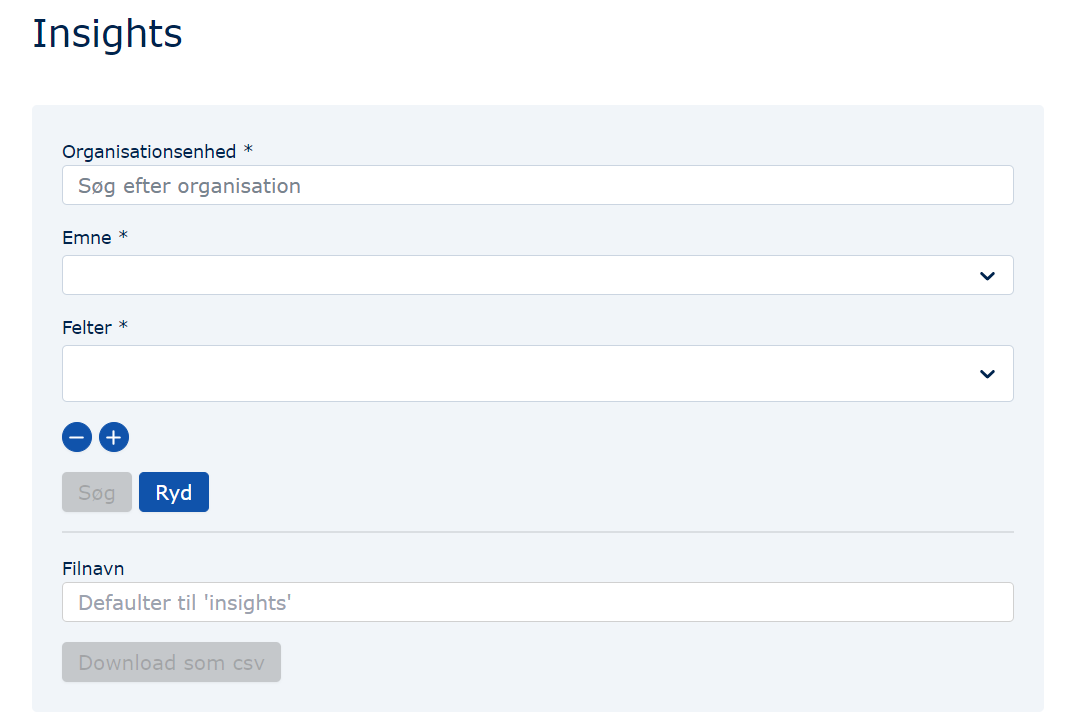
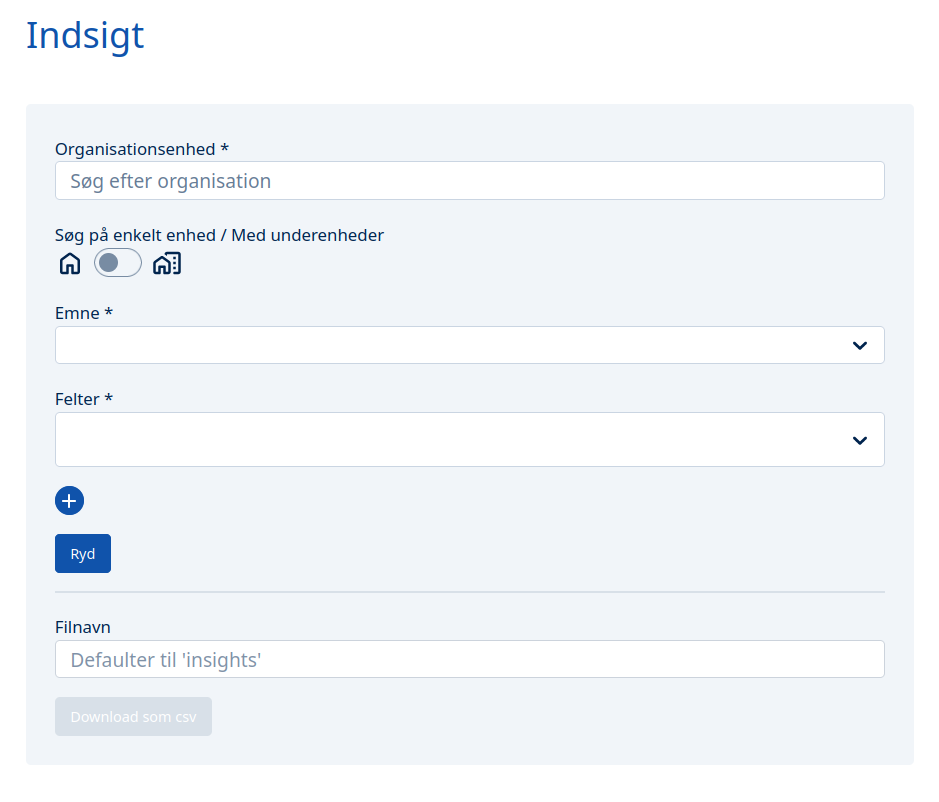
docs: [#69344] indsigt ny

diff --git a/docs/src/features/insights.md b/docs/src/features/insights.md
@@ -1,54 +1,70 @@
 ---
-title: Insights
+title: Indsigt
 ---
 
 ## Formål
 
-Insights er et modul, der giver muligheden for selv at sammensætte data fra MO og udskrive dem i en csv-fil.
+Insights er et BI-modul, der giver muligheden for selv at sammensætte data fra MO og udskrive dem i en csv-fil, der kan åbnes i et regnearksformat (Calc LibreOffice; Excel; Google Sheets).
 
 Formålene med modulet er mange og afhænger af, hvilke data der sammenstilles.
 
-Et eksempel er generering af et udtræk bestående af enheder, lederfunktioner og engagementer.
-
-Et andet er et overblik over alle enheder, deres ansatte, de ansattes adresser og telefonnumre samt stillingsbetegnelser.
+Et eksempel er generering af et udtræk bestående af enheder, lederfunktioner og engagementer, så man kan se, hvem der er chef for hvem og hvor.
 
 ## Brugergrænsefladen
 
-Når man er inde i Insights-modulet i MO, bliver man præsenteret med dette billede:
+Når man klikker på Indsigt i venstremenuen:
+
+![image](../graphics/insights/ventremenu.png)
+
+ bliver man præsenteret for dette billede:
 
 ![image](../graphics/insights/insightsforside.png)
 
-Når en organisationsenhed er fremsøgt, vil de underliggende enheder også blive valgt.
+Man skriver den enhed, man vil have data på, i søgefeltet:
 
-1. Herefter vælges hvilke andre data, man er interesseret i. Det sker ved valg af "Emne":
+![image](../graphics/insights/soegning.png)
 
-    ![image](../graphics/insights/insightsemne.png)
+Når en organisationsenhed er fremsøgt, kan man ved slideren vælge, om de underliggende enheder skal inkluderes i forespørgslen eller ej:
 
-2. Herefter kan der tilføjes eller fjernes data under "Felter" fra det Emne, der er valgt:
+![image](../graphics/insights/slider.png)
 
-    ![image](../graphics/insights/insightsfelter.png)
+Herefter vælges hvilke andre data, man er interesseret i.
 
-3. Hvis man ønsker, at csv-filen skal indeholde flere Emner, trykkes der på "+"-knappen:
+Det sker ved valg af "Emne":
 
-    ![image](../graphics/insights/insightsplus.png)
+![image](../graphics/insights/insightsemne.png)
 
-    hvorpå det bliver muligt at tilføje flere data (punkt 1-3 gentages). Ønsker man at fjerne et emne, trykkes der på "-"-knappen:
+Herefter kan der tilføjes eller fjernes data under "Felter" fra det Emne, der er valgt:
 
-    ![image](../graphics/insights/insightsminus.png)
+![image](../graphics/insights/insightsfelter.png)
 
-4. Herefter trykkes "Søg", hvorpå genereringen af filen igangsættes. Hvor lang tid det tager at generere filen, afhænger af, hvor mange data der er valgt. Når knappen "Download som csv" bliver blå, betyder det, at filen er downloadet.
-Hvis man ønsker at fjerne data fra søgningen, trykkes "Ryd":
+Hvis man ønsker, at csv-filen skal indeholde flere Emner, trykkes der på "+"-knappen:
 
-    ![image](../graphics/insights/insightssoegogryd.png)
+![image](../graphics/insights/insightsplus.png)
 
-5. Kald din fil, hvad du vil. Hvis feltet efterlades tomt, bliver den navngivet "insights":
+hvorpå det bliver muligt at tilføje flere data. Ønsker man at fjerne et emne, trykkes der på "-"-knappen:
 
-    ![image](../graphics/insights/insightsfilnavn.png)
+![image](../graphics/insights/insightsminus.png)
 
-6. Når "Download som csv"-knappen aktiveres (bliver blå), kan der trykkes på den, og csv-filen bliver hentet ned på din computer:
+Herefter trykkes "Søg", hvorpå genereringen af filen igangsættes. Hvor lang tid det tager at generere filen, afhænger af, hvor mange data der er valgt. MO beregner automatisk, hvor lang tid der er tilbage af en forespørgsel:
 
-    ![image](../graphics/insights/insightsdownload.png)
+![image](../graphics/insights/beregning.png)
+
+Bemærk, at hvis man klikker bort fra Indsigt, afbrydes forespørgslen. Hvis du vil arbejde videre i MO, mens du venter, kan du åbne MO i en anden browser.
+
+Når "Download som csv"-knappen aktiveres (bliver blå), kan der trykkes på den, og csv-filen bliver hentet ned på din computer:
+
+![image](../graphics/insights/insightsdownload.png)
+
+Kald din fil, hvad du vil. Hvis feltet efterlades tomt, bliver den navngivet "insights":
+
+![image](../graphics/insights/insightsfilnavn.png)
+
 
 En eksempelfil med oplysninger om engagementer i én enhed kan se sådan ud:
 
 ![image](../graphics/insights/insightseksempelcsv.png)
+
+Hvis man ønsker helt at fjerne data fra søgningen, trykkes "Ryd":
+
+![image](../graphics/insights/insightssoegogryd.png)
